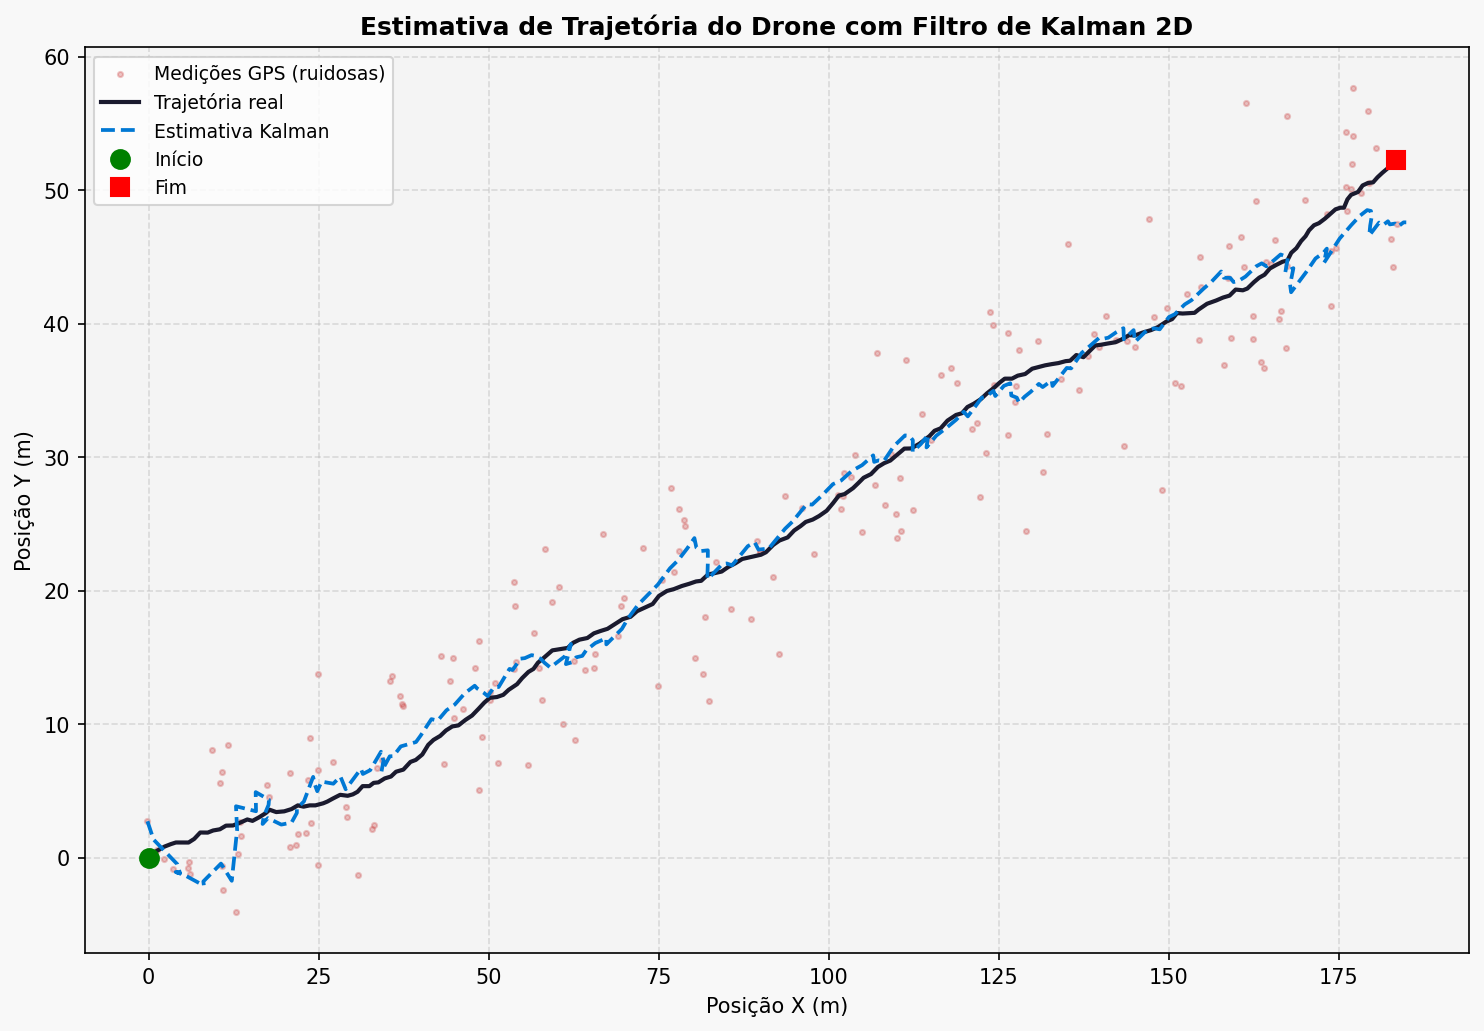
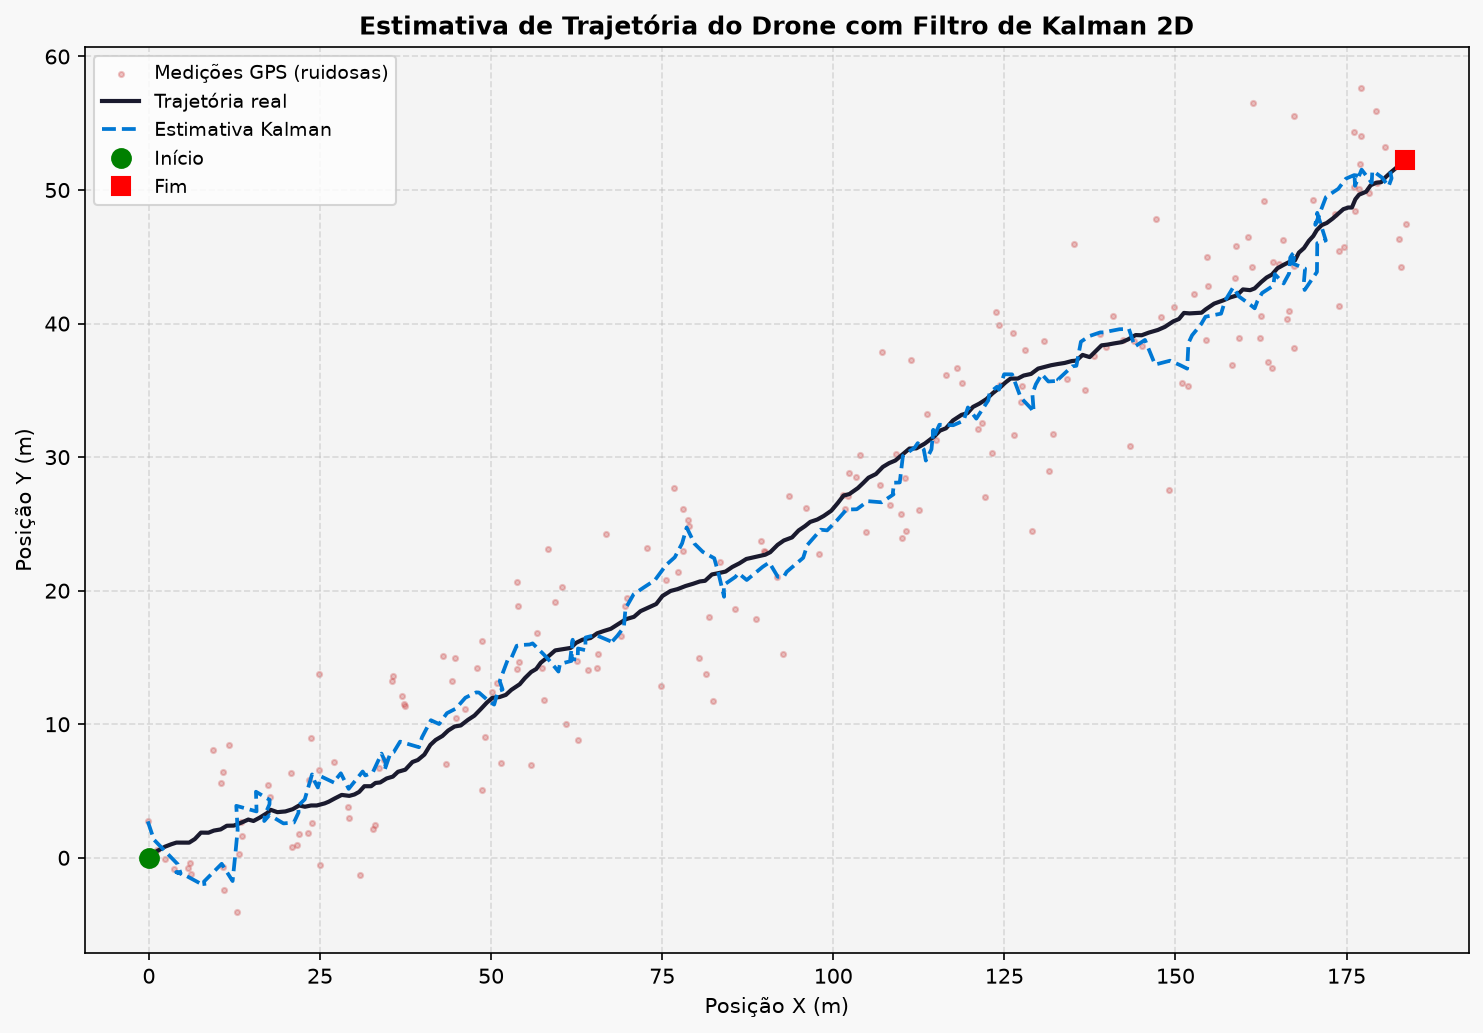
fix: use independent per-axis process noise in the Kalman filter
Q was built as G*G^T*sigma^2 with a single G for both axes, which makes the
X and Y accelerations perfectly correlated and Q rank one. The simulator
draws independent noise per axis. With the rank-one Q the filter was worse
than raw GPS in 7 of 30 seeds (RMSE 4.13 +- 2.05 m); with block-diagonal Q
it is 2.27 +- 0.21 m in all 30. process_noise_std and measurement_noise_std
are unchanged. Regenerate figures 05 and 06.

diff --git a/portfolio-3-modelos-probabilisticos/src/projeto_03_kalman.py b/portfolio-3-modelos-probabilisticos/src/projeto_03_kalman.py
@@ -209,10 +209,16 @@ class KalmanFilter2D:
         ], dtype=float)
 
         # Covariância do ruído de processo Q
-        # Modela a incerteza na aceleração do drone (vento, rajadas)
-        # Usando o modelo discreto de ruído de aceleração: Q = G·Gᵀ·σ²_a
-        g = np.array([[dt**2 / 2], [dt**2 / 2], [dt], [dt]])
-        self.Q = (g @ g.T) * (process_noise_std ** 2)
+        # Modela a incerteza na aceleração do drone (vento, rajadas). As acelerações
+        # em X e Y são independentes, então Q é bloco-diagonal por eixo: para cada
+        # eixo, o modelo discreto de aceleração com G = [dt²/2, dt]ᵀ dá
+        # Q_eixo = G·Gᵀ·σ²_a, sem covariância cruzada entre X e Y.
+        g = np.array([[dt**2 / 2], [dt]])
+        q_axis = (g @ g.T) * (process_noise_std ** 2)
+        self.Q = np.zeros((n_state, n_state))
+        for axis in (0, 1):
+            idx = [axis, axis + 2]               # (posição, velocidade) do eixo
+            self.Q[np.ix_(idx, idx)] = q_axis
 
         # Covariância do ruído de medição R (GPS isotrópico)
         self.R = np.eye(n_obs) * (measurement_noise_std ** 2)
